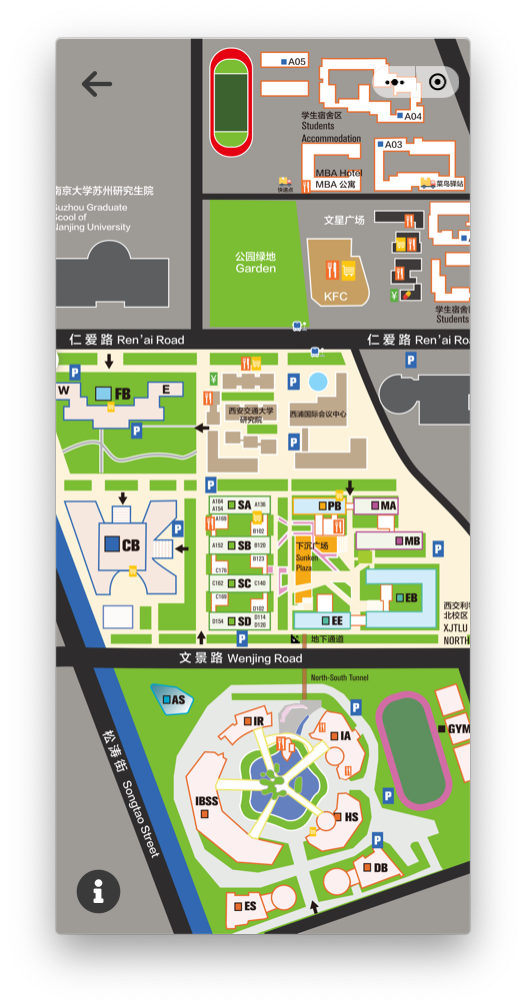
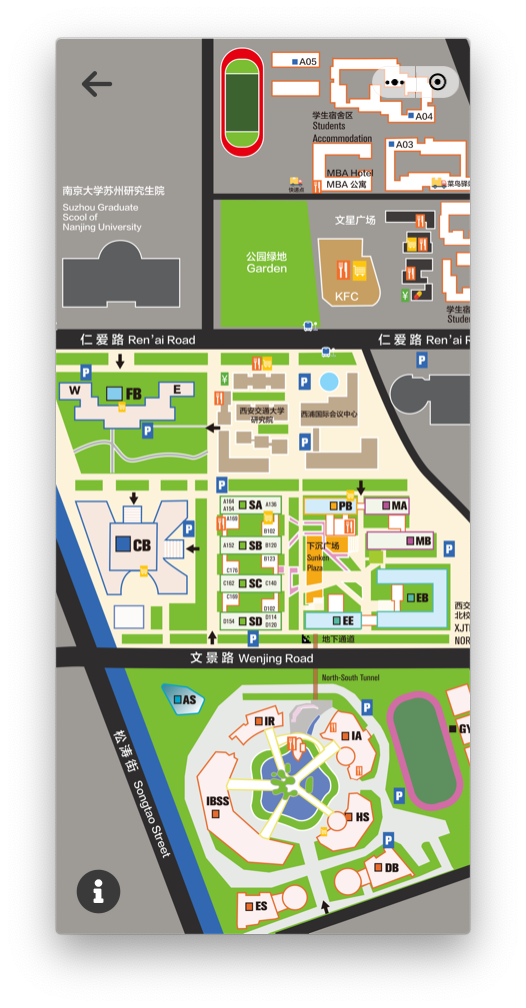
add image for panel, implement basic framework

Changed region(s): [[0.0913, 0.0308, 0.9125, 0.9226]]

diff --git a/src/BookingPanel.java b/src/BookingPanel.java
@@ -6,6 +6,9 @@ public class BookingPanel extends JFrame{
     private JPanel mapPanel;
     private JTextPane titleText;
     private JPanel selectionPanel;
+    private JPanel divisionLine;
+
+    private JScrollPane scrollPane;
 
     public BookingPanel(String title, int w, int h, int x, int y){
         super(title);
@@ -17,25 +20,37 @@ public class BookingPanel extends JFrame{
         this.setSize(w,h);
         this.setLocation(x,y);
         this.setDefaultCloseOperation(JFrame.EXIT_ON_CLOSE);
+        this.setResizable(true);
 //        this.pack(); //this will change the frame size according to the current frame component
         this.setVisible(true);
-
     }
 
     private void initComponent(){
         this.setLayout(new BorderLayout());
         mapPanel = new JPanel();
         selectionPanel = new JPanel();
+        divisionLine =new JPanel();
 
         mapPanel.setBackground(Color.pink);
+//        scrollPane = new JScrollPane(setImg("src/map.png"),ScrollPaneConstants.HORIZONTAL_SCROLLBAR_ALWAYS,ScrollPaneConstants.VERTICAL_SCROLLBAR_ALWAYS);
+        mapPanel.setPreferredSize(new Dimension(1000, 100));
         mapPanel.add(setImg("src/map.png"));
+        JScrollPane scrollPane = new JScrollPane(mapPanel);
+        scrollPane.scrollRectToVisible(new Rectangle(0,0,100,100));
+        this.add(scrollPane);
+//        this.add(mapPanel);
+
+        divisionLine.setBackground(Color.ORANGE);
+        divisionLine.setSize(5,this.getHeight());
+//        divisionLine.setBounds(mapPanel.getWidth(),0,this.getWidth()/20,this.getHeight());
 
         selectionPanel.setLayout(new BoxLayout(selectionPanel, BoxLayout.PAGE_AXIS));
         selectionPanel.add(setTitleText("Focusing Hotel Booking System"));
 
 
+//        this.add(divisionLine, BorderLayout.CENTER);
         this.add(mapPanel, BorderLayout.WEST);
-        this.add(selectionPanel, BorderLayout.EAST);
+        this.add(selectionPanel, BorderLayout.CENTER);
 //        this.add(new JButton("center"), BorderLayout.CENTER);
 
     }
@@ -51,6 +66,7 @@ public class BookingPanel extends JFrame{
         JLabel label = new JLabel();
         ImageIcon img = new ImageIcon(imgLocation);
         label.setIcon(img);
+
 //        label.setBounds(0,0,img.getIconWidth(),img.getIconHeight());
 //        mainPanel = new JPanel();
 //        mainPanel.setLayout();
